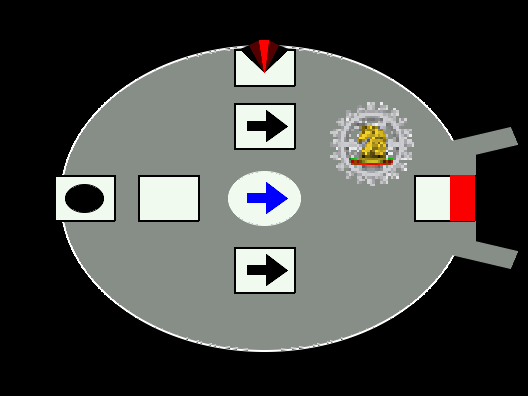
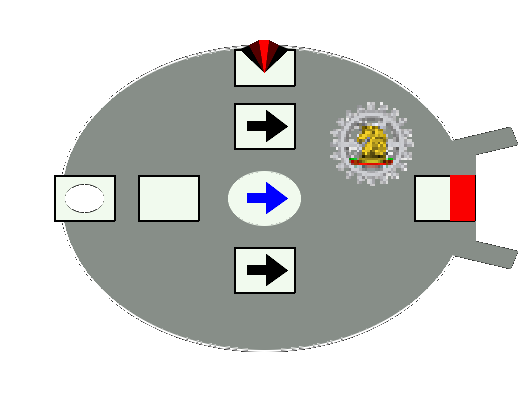
Use colorkeys to make bot images have transparent backgrounds.

diff --git a/ev3sim/visual/manager.py b/ev3sim/visual/manager.py
@@ -29,7 +29,7 @@ class ScreenObjectManager:
     SCREEN_HEIGHT: int = 960
     MAP_WIDTH: float = 200
     MAP_HEIGHT: float = 200
-    BACKGROUND_COLOUR = "#000000"
+    BACKGROUND_COLOUR = "#1f1f1f"
 
     _background_colour: Tuple[int]
 
@@ -230,7 +230,7 @@ class ScreenObjectManager:
         # We maintain aspect ratio so no tuple is required.
         return self.SCREEN_WIDTH / self.original_SCREEN_WIDTH
 
-    def captureBotImage(self, directory, filename, bg=None):
+    def captureBotImage(self, directory, filename):
         self.resetVisualElements()
         from os.path import join
         from ev3sim.simulation.loader import ScriptLoader
@@ -255,11 +255,17 @@ class ScreenObjectManager:
         SCALE_AMOUNT = 5
         for elem in self.objects.values():
             elem.scaleAtPosition(SCALE_AMOUNT)
-        self.applyToScreen(screen, bg=bg)
+        self.applyToScreen(screen, bg=pygame.Color(self.instance.background_colour))
         top_left = utils.worldspace_to_screenspace((-11 * SCALE_AMOUNT, 11 * SCALE_AMOUNT))
         bot_right = utils.worldspace_to_screenspace((11 * SCALE_AMOUNT, -11 * SCALE_AMOUNT))
-        cropped = pygame.Surface((bot_right[0] - top_left[0], bot_right[1] - top_left[1]))
+        cropped = pygame.Surface((bot_right[0] - top_left[0], bot_right[1] - top_left[1]), pygame.SRCALPHA)
         cropped.blit(screen, (0, 0), (top_left[0], top_left[1], bot_right[0] - top_left[0], bot_right[1] - top_left[1]))
+        colorkey = pygame.Color(self.instance.background_colour)
+        for x in range(bot_right[0] - top_left[0]):
+            for y in range(bot_right[1] - top_left[1]):
+                val = cropped.get_at((x, y))
+                val.a = 0 if (val.r == colorkey.r and val.g == colorkey.g and val.b == colorkey.b) else 255
+                cropped.set_at((x, y), val)
         self.resetVisualElements()
         ScriptLoader.instance.reset()
         if directory.startswith("workspace"):
